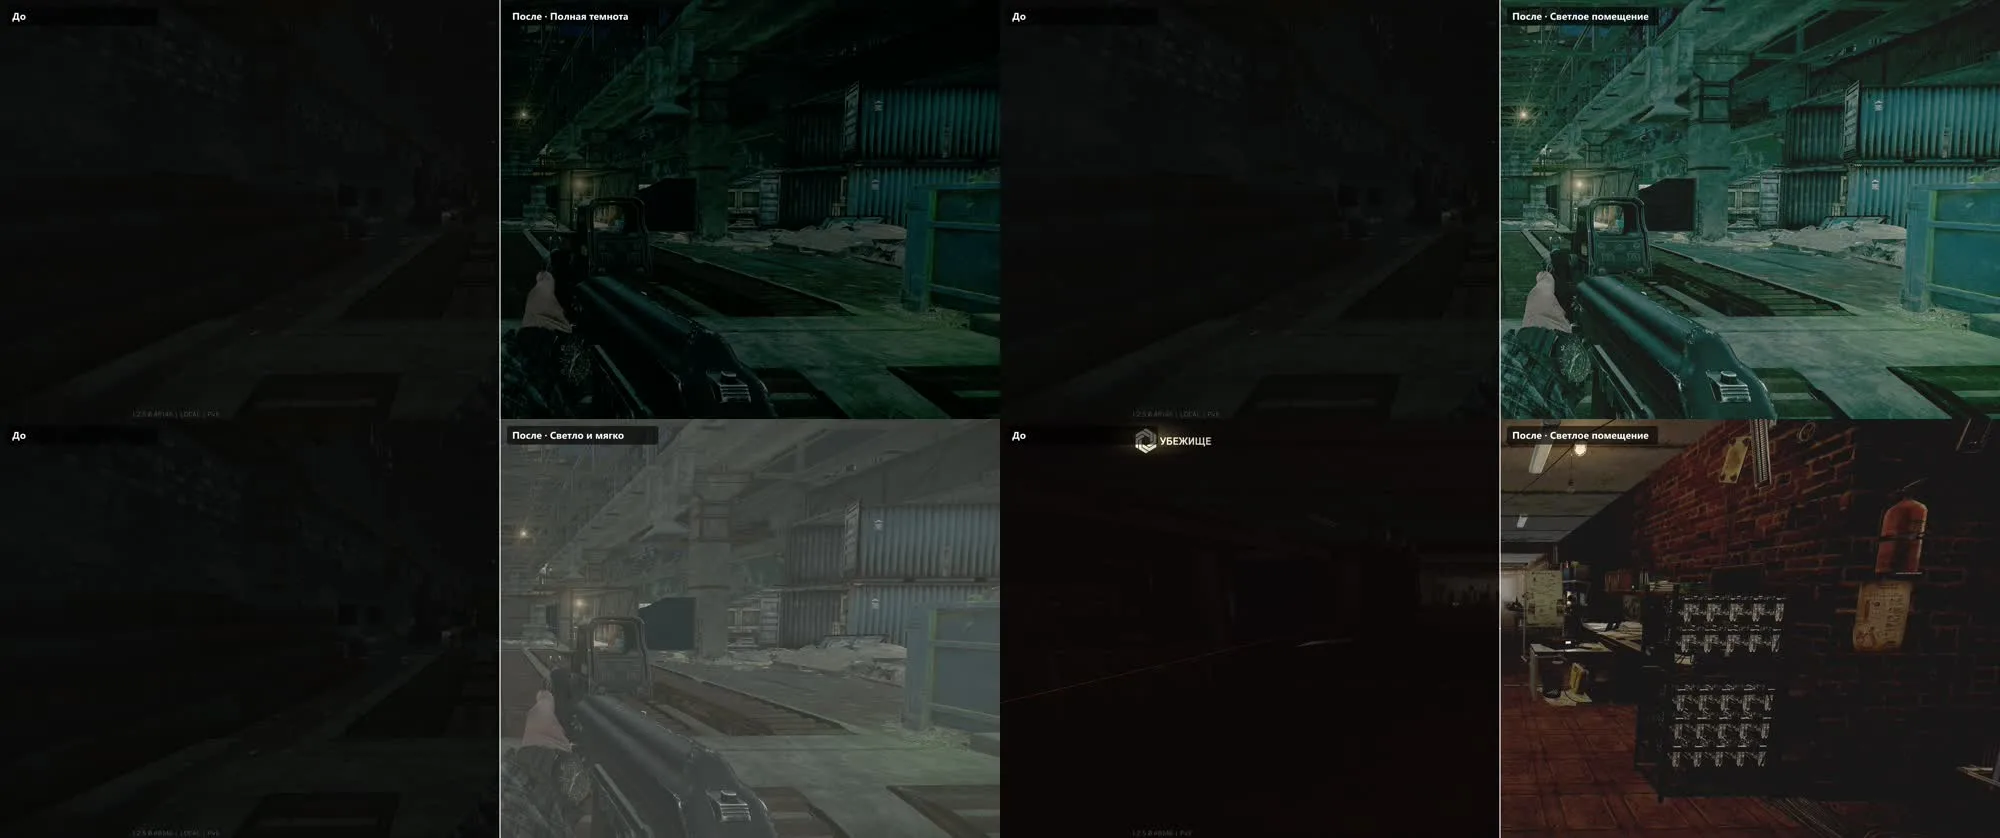
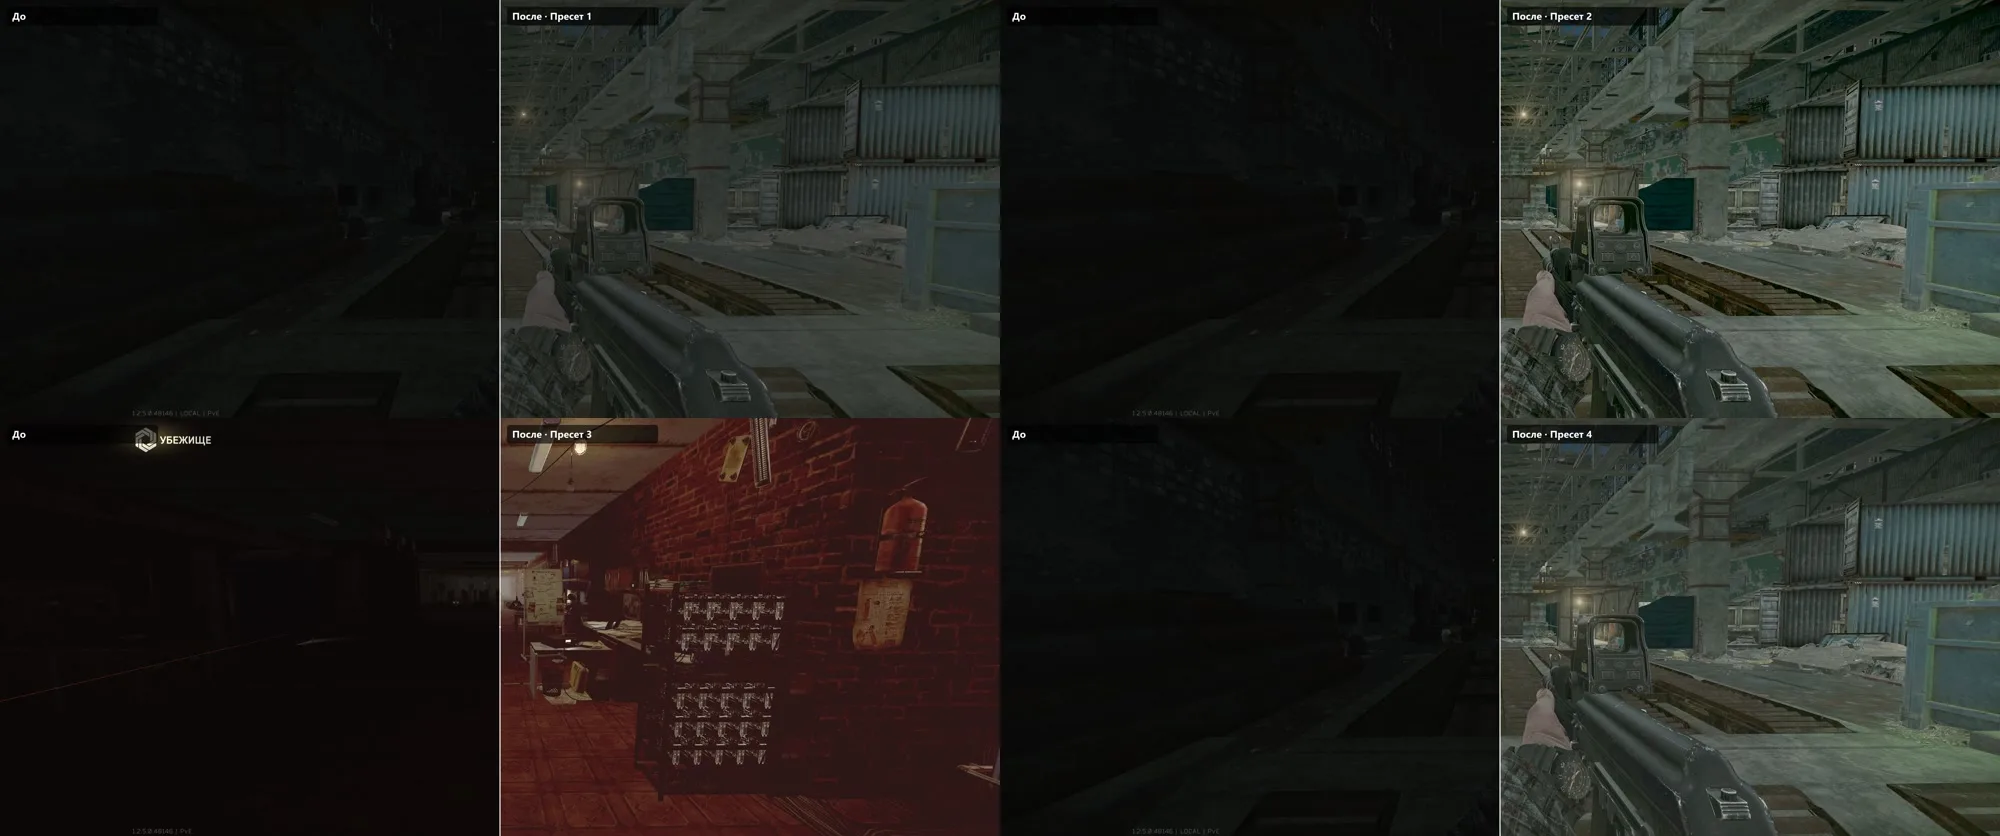
Screen presets: «Пресет 1–4» without names or notes, the intro collage relabelled

diff --git a/src/screen/screenCurve.ts b/src/screen/screenCurve.ts
@@ -258,37 +258,22 @@ export function exposureCurve(knee: number, top = 255): CurvePoint[] {
 }
 
 /**
- * Our presets: the five the owner tuned by hand in the app and kept (28.10.2026: «я сохранил пресеты… 1, 2, 3, 4, 5
+ * Our presets, named «Пресет 1…4» without notes (owner, 28.10.2026: «просто без названий… пресет 1, 2, 3, 4»; «Светло»
+ * went): the ones the owner tuned by hand in the app and kept (28.10.2026: «я сохранил пресеты… 1, 2, 3, 4, 5
  * пресетов и один стандартный»; checked again the same night), as saved in the owner's screen-tuning.json, after «Без изменений». The rest of the
  * earlier set went: players make their own («Добавить новый пресет»).
  */
 export const BUILT_IN_PRESETS: ScreenProfile[] = [
   { id: 'builtin-off', name: 'Без изменений', builtIn: true, note: 'Экран как есть', ...NEUTRAL },
   {
-    id: 'builtin-owner-full-dark', name: 'Таможня ночь', builtIn: true, note: 'Ночные рейды на Таможне',
+    id: 'builtin-owner-full-dark', name: 'Пресет 1', builtIn: true,
     ...NEUTRAL, highlights: -0.04, brightness: -0.005, haze: 3, vibrance: 51,
     curve: [
       { x: 0, y: 0 }, { x: 0.02, y: 0.1511 }, { x: 0.0909, y: 0.2936 }, { x: 0.6364, y: 0.6814 }, { x: 1, y: 1 },
     ],
   },
   {
-    id: 'builtin-owner-bright-room', name: 'Светло', builtIn: true, note: 'Убежище, подвалы, бункеры, Лаборатория',
-    ...NEUTRAL, gamma: 1.04, contrast: 0.02, haze: 3, vibrance: 56,
-    curve: [
-      { x: 0, y: 0.086 }, { x: 0.0078, y: 0.1412 }, { x: 0.0118, y: 0.1882 }, { x: 0.0196, y: 0.2588 }, { x: 0.0314, y: 0.3333 },
-      { x: 0.0471, y: 0.4 }, { x: 0.0706, y: 0.4745 }, { x: 0.1098, y: 0.5569 }, { x: 0.1765, y: 0.651 }, { x: 0.2909, y: 0.736 },
-      { x: 0.4314, y: 0.8275 }, { x: 0.6667, y: 0.9176 }, { x: 1, y: 1 },
-    ],
-  },
-  {
-    id: 'builtin-owner-bright', name: 'Светло и мягко', builtIn: true, note: 'Ярче вся картинка, мягкий контраст',
-    ...NEUTRAL, gamma: 1.82, shadows: 0.36, highlights: -0.04, contrast: 0.14, brightness: -0.02, haze: 4, vibrance: 60,
-    curve: [
-      { x: 0, y: 0 }, { x: 0.2576, y: 0.2678 }, { x: 0.5242, y: 0.5587 }, { x: 1, y: 1 },
-    ],
-  },
-  {
-    id: 'builtin-daylight', name: 'Как днём', builtIn: true, note: 'Ночь и сумерки на улице: светло и видно',
+    id: 'builtin-daylight', name: 'Пресет 2', builtIn: true,
     ...NEUTRAL, contrast: 0.05,
     curve: [
       { x: 0, y: 0 }, { x: 0.0039, y: 0.0824 }, { x: 0.0078, y: 0.1412 }, { x: 0.0118, y: 0.1882 }, { x: 0.0196, y: 0.2588 },
@@ -297,12 +282,19 @@ export const BUILT_IN_PRESETS: ScreenProfile[] = [
     ],
   },
   {
-    id: 'builtin-daylight-rooms', name: 'Светлое помещение', builtIn: true, note: 'Убежище, подвалы, бункеры, Лаборатория',
+    id: 'builtin-daylight-rooms', name: 'Пресет 3', builtIn: true,
     ...NEUTRAL, gamma: 1.04, contrast: 0.02, haze: 5, cast: 0.25, vibrance: 67,
     curve: [
       { x: 0, y: 0.086 }, { x: 0.0078, y: 0.1412 }, { x: 0.0118, y: 0.1882 }, { x: 0.0196, y: 0.2588 }, { x: 0.0314, y: 0.3333 },
       { x: 0.0471, y: 0.4 }, { x: 0.0706, y: 0.4745 }, { x: 0.1098, y: 0.5569 }, { x: 0.1765, y: 0.651 }, { x: 0.2727, y: 0.7527 },
       { x: 0.4314, y: 0.8275 }, { x: 0.6667, y: 0.9176 }, { x: 1, y: 1 },
+    ],
+  },
+  {
+    id: 'builtin-owner-bright', name: 'Пресет 4', builtIn: true,
+    ...NEUTRAL, gamma: 1.82, shadows: 0.36, highlights: -0.04, contrast: 0.14, brightness: -0.02, haze: 4, vibrance: 60,
+    curve: [
+      { x: 0, y: 0 }, { x: 0.2576, y: 0.2678 }, { x: 0.5242, y: 0.5587 }, { x: 1, y: 1 },
     ],
   },
 ]

diff --git a/src/i18n/uiEnglishScreen.ts b/src/i18n/uiEnglishScreen.ts
@@ -9,10 +9,9 @@ export const SCREEN_PHRASES: Array<[string, string]> = [
   ['Вкл/выкл пресет', 'Preset on/off'], ['Сменить пресет', 'Next preset'], ['Убрать клавишу', 'Clear the key'], ['Нажмите клавишу… (Esc — отмена)', 'Press a key… (Esc — cancel)'], ['Назначьте клавишу', 'Set a key'],
   ['Включится в рейде, когда окно игры на экране', 'Turns on in a raid, when the game window is on the screen'],
   ['Добавить новый пресет', 'Add a new preset'], ['Новый пресет', 'New preset'],
-  ['Таможня ночь', 'Customs at night'], ['Ночные рейды на Таможне', 'Night raids on Customs'], ['Светло', 'Light'], ['Тёмные помещения: светло и видно', 'Dark rooms: light and visible'],
-  ['Как днём', 'Like daytime'], ['Ночь и сумерки на улице: светло и видно', 'Night and dusk outdoors: light and visible'], ['Убежище, подвалы, бункеры, Лаборатория', 'The hideout, basements, bunkers, the Lab'],
   ['Шкала кривой', 'Curve scale'], ['Тени крупно', 'Shadows large'], ['Обычная шкала', 'Plain scale'], ['Выбранная точка', 'Chosen point'], ['было', 'in'], ['стало', 'out'], ['Убрать точку', 'Remove the point'],
   ['Зоны кривой', 'Curve zones'], ['Тени (самое тёмное)', 'Shadows (the darkest)'], ['Тёмные тона', 'Dark tones'], ['Светлые тона', 'Light tones'], ['Яркие (самое светлое)', 'Highlights (the brightest)'],
+  ['Пресет 1', 'Preset 1'], ['Пресет 2', 'Preset 2'], ['Пресет 3', 'Preset 3'], ['Пресет 4', 'Preset 4'],
   ['Монитор', 'Monitor'], ['Тот, где игра', 'The one with the game'],
   ['Настроить кривую', 'Tune the curve'], ['Переименовать', 'Rename'], ['Убрать из списка', 'Take off the list'], ['Вернуть стандартные пресеты', 'Bring back the standard presets'],
   ['Название пресета', 'Preset name'], ['Переименовать пресет', 'Rename the preset'],
@@ -47,8 +46,6 @@ export const SCREEN_PHRASES: Array<[string, string]> = [
   ['Настройка экрана работает в приложении Raid OS для Windows.', 'Screen settings work in the Raid OS app for Windows.'],
   // our presets (src/screen/screenCurve.ts BUILT_IN_PRESETS)
   ['Без изменений', 'No change'], ['Экран как есть', 'The screen as it is'],
-  ['Светлое помещение', 'A lit room'],
-  ['Светло и мягко', 'Light and soft'], ['Ярче вся картинка, мягкий контраст', 'The whole picture brighter, soft contrast'],
   ['Фильтры', 'Filters'], ['Убрать дымку в темноте', 'Remove the haze in the dark'], ['Убрать красно-бурый налёт', 'Remove the red-brown cast'],
   // «Оптимизация ПК» (src/screen/OptimizePanel.tsx)
   ['Оптимизация компьютера', 'PC optimization'],

diff --git a/src/screen/ScreenTuningPage.test.tsx b/src/screen/ScreenTuningPage.test.tsx
@@ -44,8 +44,8 @@ const renderPage = () => render(<LocaleProvider><ScreenTuningPage /></LocaleProv
 describe('«Настройка экрана»', () => {
   it('lists our presets, chooses one, turns it on in the game and picks the monitor', async () => {
     renderPage()
-    expect(await screen.findByText('Таможня ночь')).toBeInTheDocument()
-    fireEvent.click(screen.getByText('Светло и мягко'))
+    expect(await screen.findByText('Пресет 1')).toBeInTheDocument()
+    fireEvent.click(screen.getByText('Пресет 4'))
     await waitFor(() => expect(api.update).toHaveBeenCalledWith({ activeId: 'builtin-owner-bright' }))
     fireEvent.click(screen.getByLabelText('Включить в игре'))
     await waitFor(() => expect(api.update).toHaveBeenCalledWith({ enabled: true }))
@@ -55,7 +55,7 @@ describe('«Настройка экрана»', () => {
 
   it('the curve being tuned goes into the game at once; «Сохранить пресет» asks for a name and goes back to the list', async () => {
     renderPage()
-    fireEvent.click((await screen.findAllByTitle('Настроить кривую'))[4]!)
+    fireEvent.click((await screen.findAllByTitle('Настроить кривую'))[2]!)
     expect(screen.getByText('NVIDIA: цифровая интенсивность')).toBeInTheDocument()
     await waitFor(() => expect(api.edit).toHaveBeenCalledWith(expect.objectContaining({ curve: expect.any(Array) })))
     fireEvent.click(screen.getByText('Сохранить пресет'))
@@ -99,20 +99,20 @@ describe('«Настройка экрана»', () => {
 
   it('renames and takes off one of ours', async () => {
     renderPage()
-    await screen.findByText('Таможня ночь')
+    await screen.findByText('Пресет 1')
     fireEvent.click(screen.getAllByTitle('Переименовать')[1]!)
-    const name = screen.getByDisplayValue('Таможня ночь')
+    const name = screen.getByDisplayValue('Пресет 1')
     fireEvent.change(name, { target: { value: 'Кромешная ночь' } })
     fireEvent.click(screen.getByText('Сохранить'))
     await waitFor(() => expect(api.renamePreset).toHaveBeenCalledWith('builtin-owner-full-dark', 'Кромешная ночь'))
-    fireEvent.click(screen.getAllByTitle('Убрать из списка')[5]!)
+    fireEvent.click(screen.getAllByTitle('Убрать из списка')[3]!)
     await waitFor(() => expect(api.deletePreset).toHaveBeenCalledWith('builtin-daylight-rooms'))
   })
 
   it('is English in the English interface', async () => {
     localStorage.setItem('tarkov-operations-locale-v1', 'en')
     const { container } = renderPage()
-    expect(await screen.findByText('Customs at night')).toBeInTheDocument()
+    expect(await screen.findByText('Preset 1')).toBeInTheDocument()
     expect(screen.getByText('Turn on in the game')).toBeInTheDocument()
     fireEvent.click(screen.getByText('Add a new preset'))
     expect(container.querySelector('.screen-page')?.textContent ?? '').not.toMatch(/[А-Яа-яЁё]/)

diff --git a/electron/screenTuning/state.test.ts b/electron/screenTuning/state.test.ts
@@ -43,9 +43,9 @@ describe('«Настройка экрана»: what is kept', () => {
     const list = allPresets(cleanSettings(JSON.parse(JSON.stringify(tuned.settings))))
     const day = list.find((preset) => preset.id === 'builtin-daylight')!
     expect(day).toMatchObject({ name: 'Мой день', gamma: 1.4, haze: 3, builtIn: true, edited: true })
-    expect(list.findIndex((preset) => preset.id === 'builtin-daylight')).toBe(4)
+    expect(list.findIndex((preset) => preset.id === 'builtin-daylight')).toBe(2)
     const back = allPresets(revertBuiltIn(tuned.settings, 'builtin-daylight')).find((preset) => preset.id === 'builtin-daylight')!
-    expect(back.name).toBe('Как днём')
+    expect(back.name).toBe('Пресет 2')
     expect(back.gamma).toBe(1)
     expect(back.edited).toBeUndefined()
   })
@@ -60,7 +60,7 @@ describe('«Настройка экрана»: what is kept', () => {
     expect(hidden.activeId).toBe('builtin-off')
     expect(cleanSettings(hidden).builtIns).toEqual({ 'builtin-owner-full-dark': { name: 'Кромешная ночь' }, 'builtin-daylight-rooms': { hidden: true } })
     const back = restoreBuiltIns(hidden)
-    expect(allPresets(back).find((preset) => preset.id === 'builtin-owner-full-dark')!.name).toBe('Таможня ночь')
+    expect(allPresets(back).find((preset) => preset.id === 'builtin-owner-full-dark')!.name).toBe('Пресет 1')
     expect(allPresets(back).some((preset) => preset.id === 'builtin-daylight-rooms')).toBe(true)
     expect(() => renamePreset(DEFAULT_SETTINGS, 'builtin-daylight-rooms', '  ')).toThrow(/название/)
   })

diff --git a/src/i18n/uiEnglishScreen.test.ts b/src/i18n/uiEnglishScreen.test.ts
@@ -12,7 +12,7 @@ describe('English for «Настройка экрана»', () => {
   it('translates our presets and why a program is heavy', () => {
     for (const preset of BUILT_IN_PRESETS) {
       expect(exactUiText(preset.name), preset.name).toBeTruthy()
-      expect(exactUiText(preset.note!), preset.note).toBeTruthy()
+      if (preset.note) expect(exactUiText(preset.note), preset.note).toBeTruthy()
     }
     for (const program of HEAVY_PROGRAMS) expect(exactUiText(program.why), program.why).toBeTruthy()
   })

diff --git a/docs/coordination/WORK_LOG.md b/docs/coordination/WORK_LOG.md
@@ -4186,3 +4186,12 @@ aidos-screen-tuning`.
 - `scripts/trailer/trailer-ru.html`, `trailer-en.html`: сцена «Пресеты экрана — видно даже ночью» / «Screen presets — see even at night» — коллаж владельца «до/после» (`scripts/trailer/owner/screen-presets.jpg`, 4 пары), подписи поверх коллажа на языке ролика с нынешними именами пресетов («Таможня ночь», «Светлое помещение», «Светло и мягко»; на коллаже было старое «Полная темнота»); пункты: готовые пресеты, включаются в рейде клавишей, только настройка монитора. Затем 3,6 с «Оптимизация ПК» / «PC optimization»: схема питания «Высокая производительность», игровой режим Windows, без фоновой записи Xbox, всё возвращается одной кнопкой. Остальные сцены сдвинуты, длина 87,6 с.
 - Ролики `website/public/media/trailer.mp4` (RU) и `trailer-en.mp4` (EN) с обложками перерендерены; покадровая проверка — 0 кадров «из другого времени» в обоих.
 - Состояние: выпуск 0.6.0.108 (ветка `claude/trailer-locales`, поверх 0.6.0.107 с самой «Настройкой экрана»). Код приложения и сайта не менялся — только ролики, сценарии и версия.
+
+## 2026-10-28 — Claude: 0.6.0.109 — пресеты экрана без названий: «Пресет 1–4»
+
+- Владелец: «в приложении не нужно писать 4 пресета вот эти… Просто без названий… пресет 1, 2, 3, 4».
+- `src/screen/screenCurve.ts`: «Без изменений», «Пресет 1» (builtin-owner-full-dark), «Пресет 2» (builtin-daylight), «Пресет 3» (builtin-daylight-rooms), «Пресет 4» (builtin-owner-bright); подписи под названиями убраны; пятый, builtin-owner-bright-room («Светло»), убран. id прежние — правки и скрытие у игроков сохраняются; у кого был выбран убранный пресет, включится стандартный.
+- EN «Preset 1…4» (`uiEnglishScreen.ts`); тесты экрана/состояния/перевода обновлены.
+- Коллаж приветственного тура `src/assets/screen-presets-intro.webp` пересобран с подписями «После · Пресет N».
+- Проверки: vitest src/screen, electron/screenTuning, src/onboarding, src/i18n 106/106; typecheck, tsc electron, eslint чистые.
+- Риски: ролики на сайте с «Пресет 1–4» перерендеривает сессия «чистка» отдельным выпуском.
